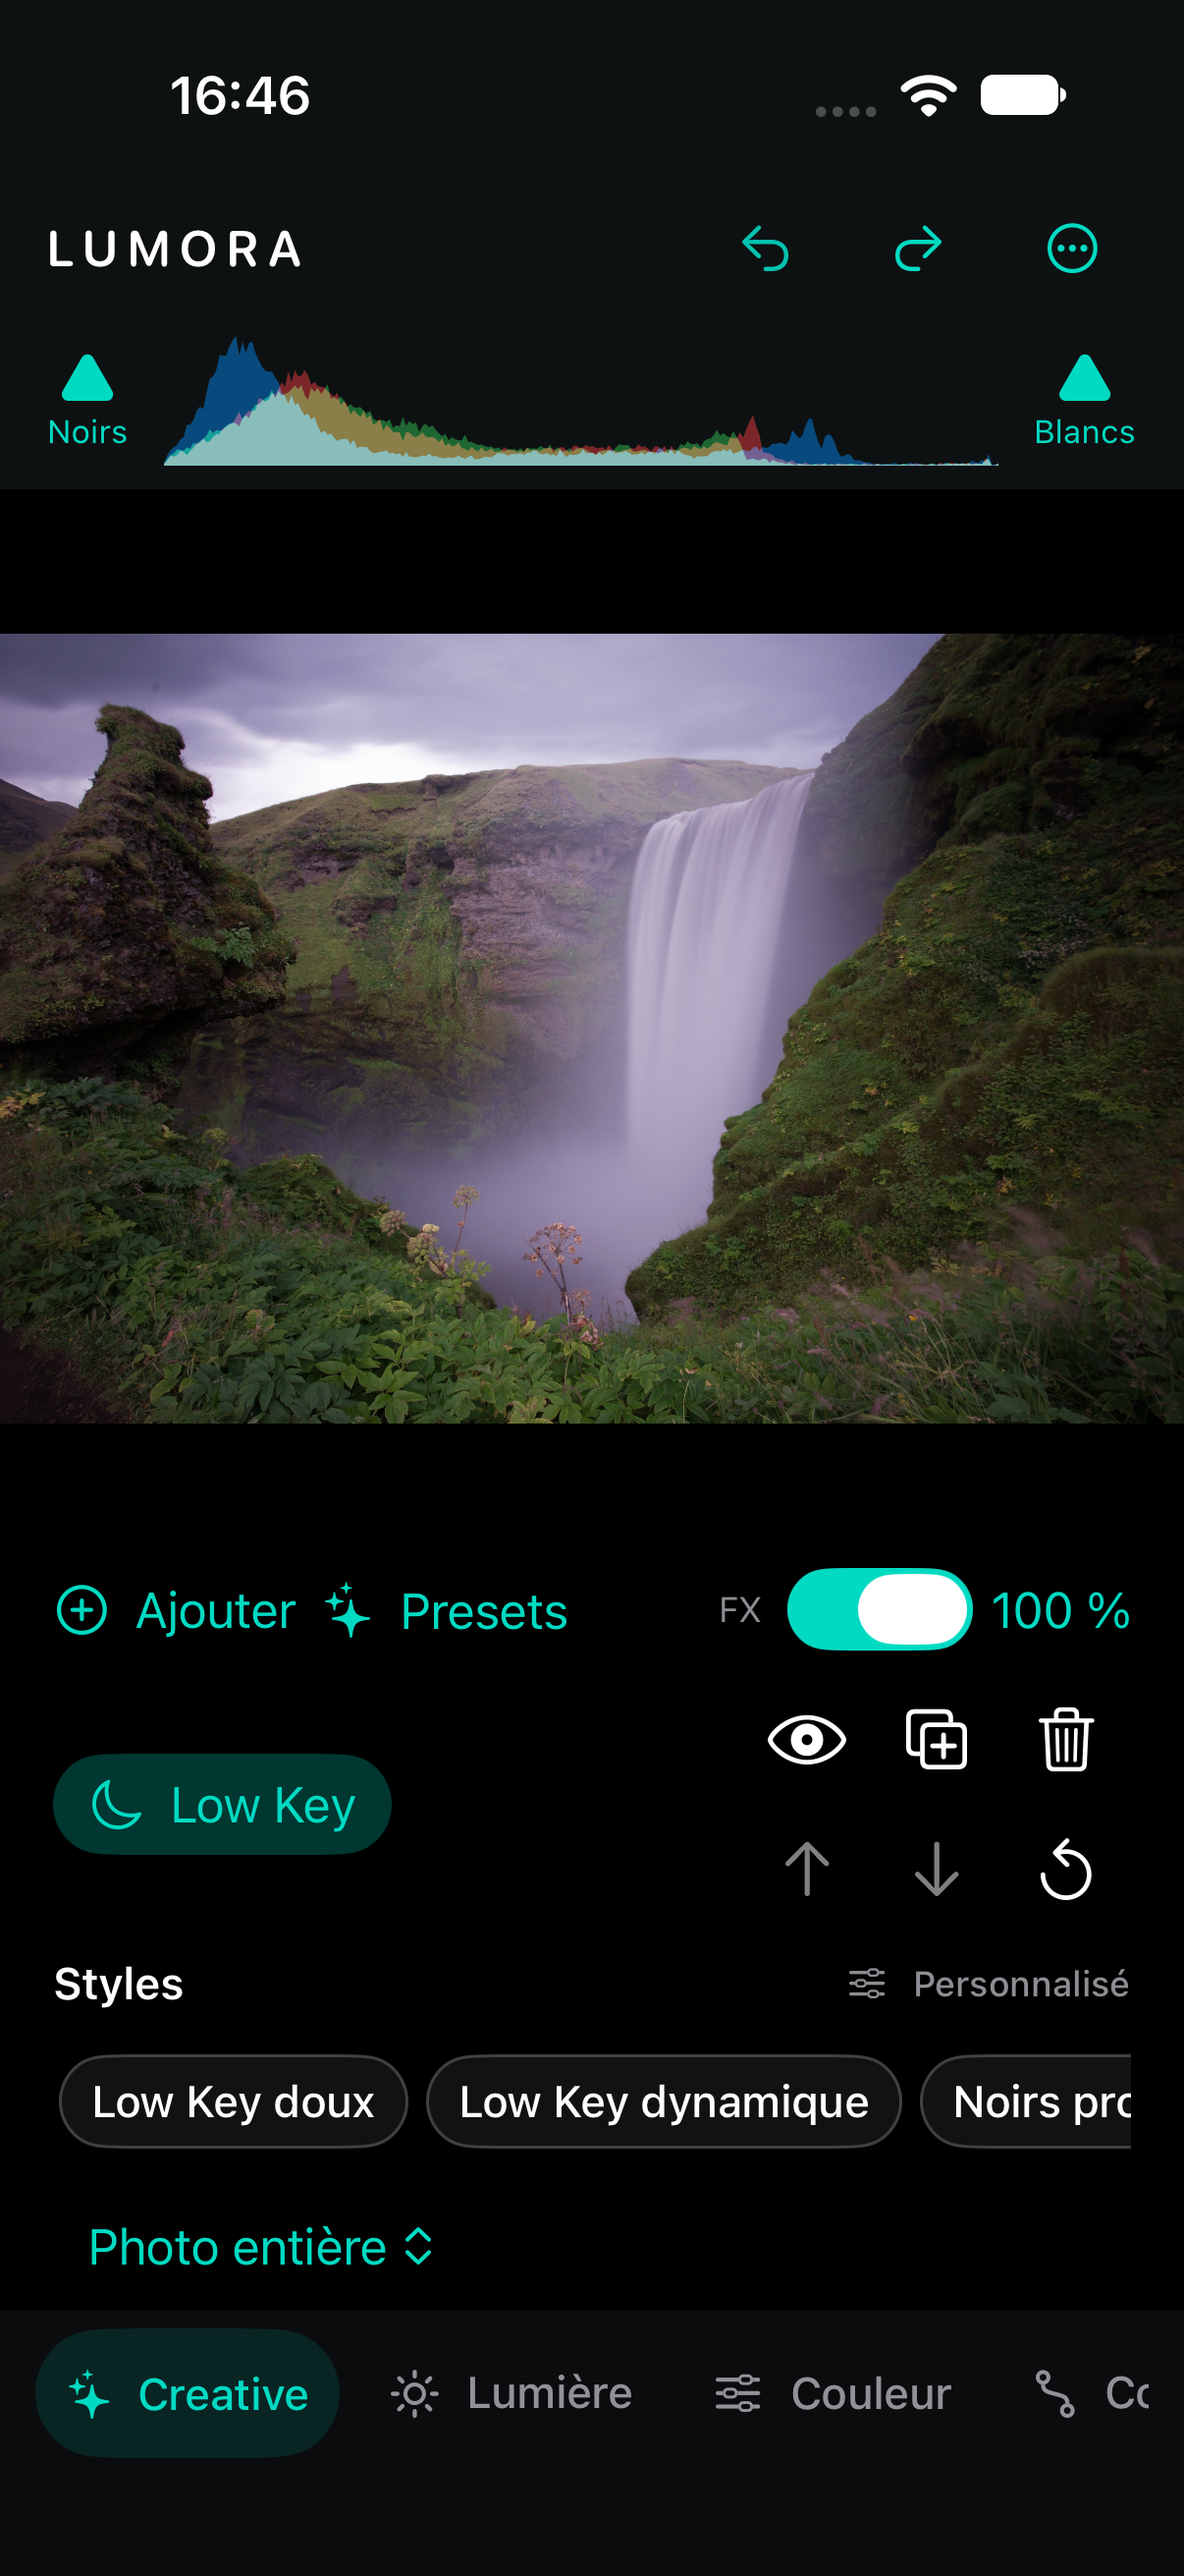
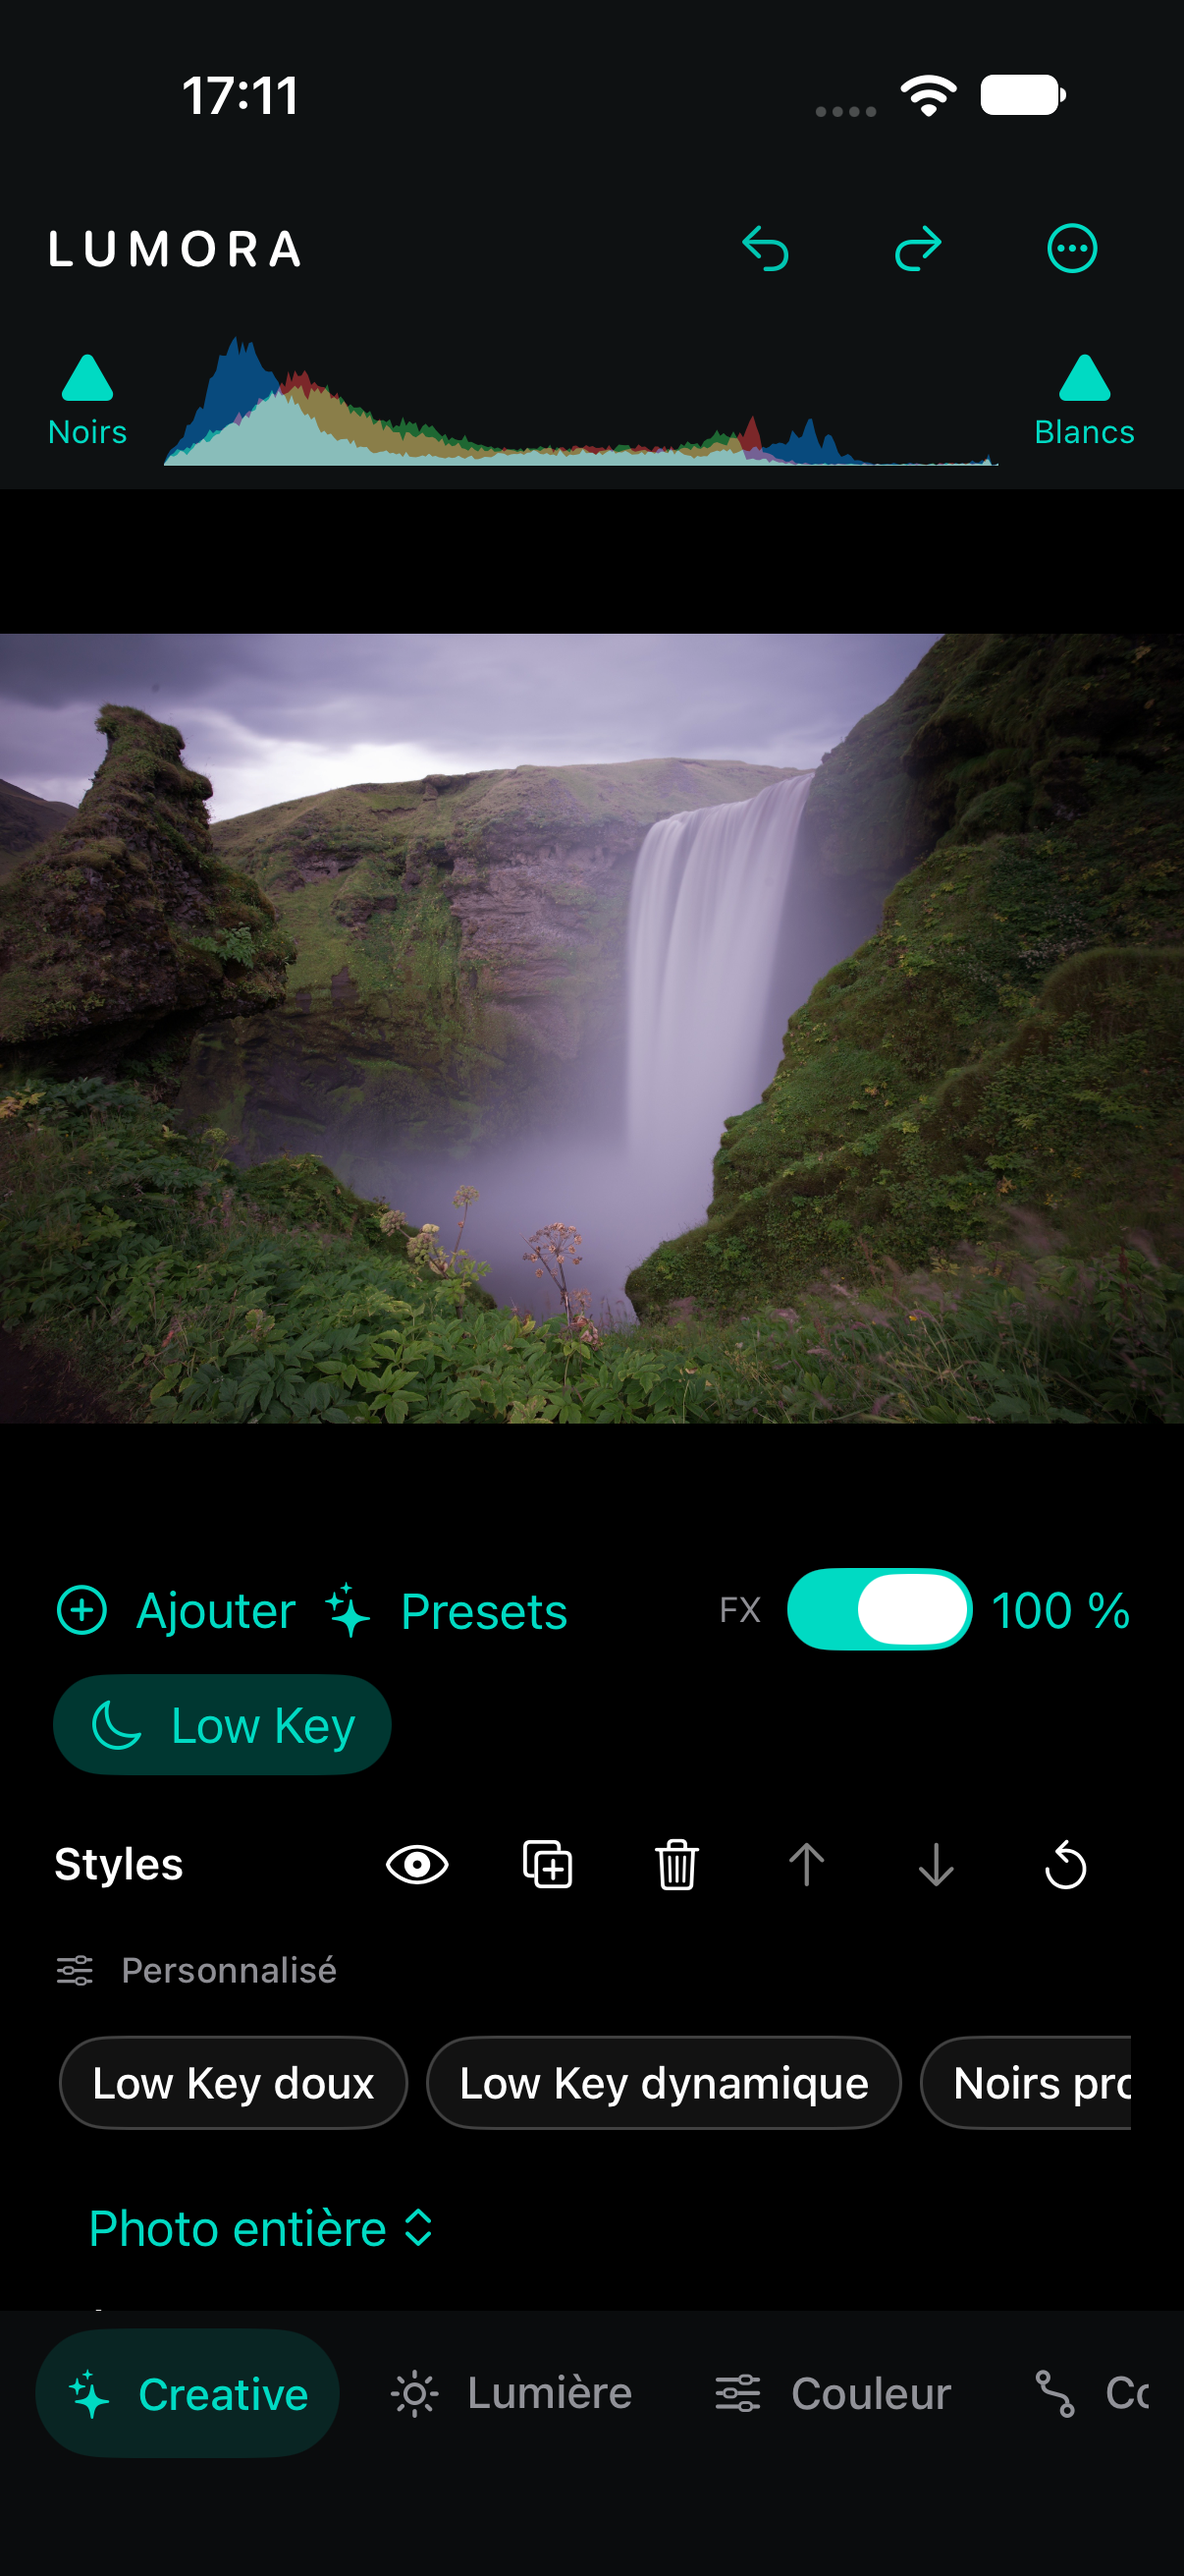
docs: refresh creative action layout

diff --git a/Documentation/CreativeEffects.md b/Documentation/CreativeEffects.md
@@ -4,7 +4,7 @@
 
 ## Pile et masques
 
-Le panneau **Creative** permet d’ajouter, désactiver, dupliquer, réordonner, réinitialiser et supprimer un effet. Les six actions de l’effet sélectionné sont directement accessibles à droite de son nom, sur deux rangées d’icônes avec une cible tactile de 44 points : œil, duplication, suppression, ordre précédent/suivant et réinitialisation. Le menu « … » est supprimé. Chaque instance conserve ses réglages, son opacité et son éventuel masque. L’ordre de la pile est l’ordre du traitement : déplacer un effet peut changer le résultat. Le bypass Creative sert à comparer l’aperçu et n’est pas exporté.
+Le panneau **Creative** permet d’ajouter, désactiver, dupliquer, réordonner, réinitialiser et supprimer un effet. Les six actions de l’effet sélectionné sont directement accessibles à droite de « Styles », sur une seule rangée d’icônes de 16 points avec une cible tactile de 44 points : œil, duplication, suppression, ordre précédent/suivant et réinitialisation. Le menu « … » est supprimé. Chaque instance conserve ses réglages, son opacité et son éventuel masque. L’ordre de la pile est l’ordre du traitement : déplacer un effet peut changer le résultat. Le bypass Creative sert à comparer l’aperçu et n’est pas exporté.
 
 Les effets utilisent les masques existants, y compris leurs composantes ajoutées/soustraites et leur inversion. Un masque absent, masqué ou d’opacité nulle suspend l’effet qui le référence. Les changements passent par Undo/Redo et sont enregistrés dans le document.
 

diff --git a/Documentation/Files.md b/Documentation/Files.md
@@ -356,5 +356,5 @@ Le modèle d’édition, la session, le moteur, l’écran principal et le parco
 - `EditorSession.setMaskEditingPreview` : suspension du développement pendant l’édition de la matte, reprise du dernier état en quittant Masques.
 - `PhotoCanvas` : navigation portée par la photo, poignées indépendantes sous zoom, overlay identifié directement par son état plutôt que par sérialisation JSON.
 - `EditorView` : ligne d’informations conditionnelle, nom sans extension, format et dimensions indépendants (y compris RAW).
-- `CreativeEffectsView` : actions directes de 44 points à droite du titre.
+- `CreativeEffectsView` : icônes directes de 16 points à droite de « Styles », cibles tactiles de 44 points.
 - `EditorInteractionFixesUITests` : déplacement des poignées sous zoom, absence de développement pendant le pinceau, navigation sans trait, informations contextuelles et actions Creative.
